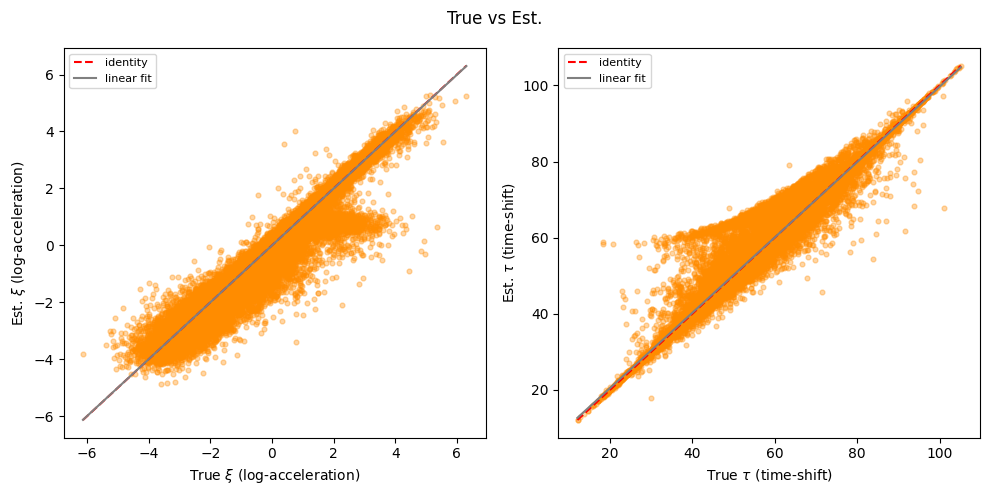
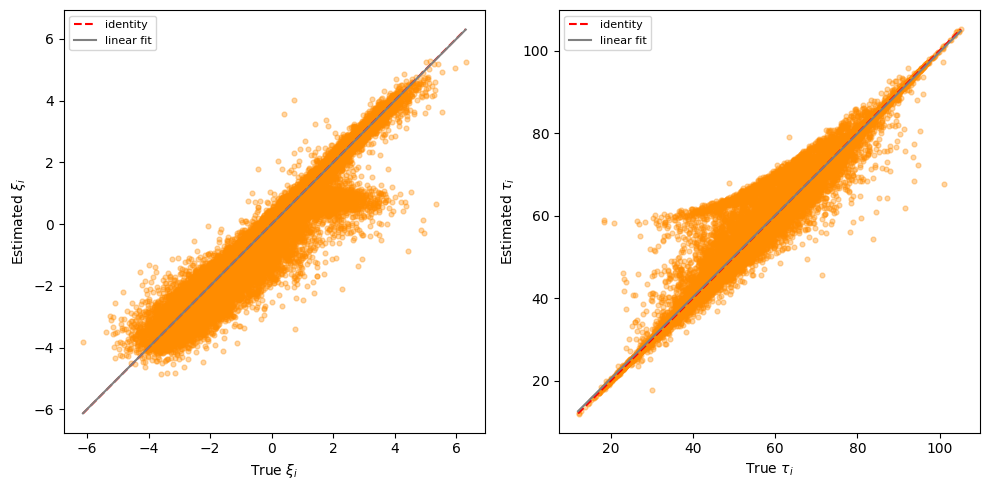
coherent notation between figures and report

diff --git a/deliverables/report.tex b/deliverables/report.tex
@@ -477,10 +477,12 @@ where $MS_B$ is the mean square between subjects and $MS_E$ is the mean square e
 The {Bland-Altman analysis} provides a graphical complement to the ICC. For each individual $i$ and each repetition $m$, the difference $\hat{\theta}_i^{(m)} - \theta_i^{(m)}$ is plotted against the mean $(\hat{\theta}_i^{(m)} + \theta_i^{(m)})/2$, pooled across all $M$ repetitions. Three summary quantities are reported: the bias (mean difference), which reveals any constant over- or under-estimation; the limits of agreement $\pm 1.96\,\mathrm{SD}$, which delimit the interval capturing approximately 95\% of individual differences; and the dependence of the difference on the mean, which would indicate proportional bias. A narrow symmetric band centred on zero is the signature of an accurate and unbiased personalisation procedure.
  
 \subsection{Experimental Setup}
-\todo{présenter les features (dire à quels indices elles correspondent), présenter un peu le dataset}
-The reference model $\theta^*$ is a joint model fitted on the PRO-ACT dataset, with a single event ($L = 1$). The simulation study is carried out in the \textit{random} visit mode with the following study parameters: first-visit offset $\bar{\delta}_f = -2.0$ years and $\sigma_{\delta_f} = 1.0$ year; follow-up duration $\overline{T_f} = 6.0$ years and $\sigma_{T_f} = 2.0$ years; inter-visit interval $\bar{\delta}_v = 0.083$ years and $\sigma_{\delta_v} = 0.042$ years; and a minimum spacing between visits of $0.05$ years. These parameters are deliberately chosen to place each simulated cohort in favourable conditions: the short inter-visit interval and long follow-up produce a dense observation schedule, so that each patient contributes many data points. This abundance of information per individual reduces the number of MCMC-SAEM iterations required to reach convergence both at the fitting and at the personalisation stage.  
 
-Each synthetic cohort contains $N = 1000$ patients, and the experiment is repeated $M = 50$ times. Each fresh model is fitted using the MCMC-SAEM algorithm with $N_{\mathrm{iter}} = 6000$ iterations, and the subsequent personalisation step runs for $N_{\mathrm{perso}} = 2000$ iterations. Naturally, the computational cost of this procedure is substantial, as it requires fitting $M$ separate joint models from scratch. Better results could be obtained by increasing $N$ and $M$, but this would further increase the computational burden. The chosen values of $N$ and $M$ represent a compromise between statistical power and practical feasibility, while still providing a robust assessment of the model's self-consistency.
+The reference model $\theta^*$ is a multivariate joint model fitted on the PRO-ACT dataset, a pooled and anonymized repository of longitudinal data from completed clinical trials in amyotrophic lateral sclerosis (ALS). It is fitted with latent sources of dimension $K = 2$, a single event ($L = 1$) representing death and four longitudinal outcomes ($J=4$) corresponding to the ALSFRS-R sub-scores for bulbar, fine motor, gross motor, and total function. The four longitudinal features are indexed as ($j=0,1,2,3$) and correspond, respectively, to: bulbar function (the sum of speech, salivation, and swallowing items); fine-motor function (handwriting, cutting food/handling utensils, and dressing/hygiene); gross-motor function (turning in bed/adjusting bed clothes, walking, and climbing stairs); and total function, defined as the overall ALSFRS-R score across all items, including the three preceding domains and the respiratory items (dyspnea, orthopnea, and respiratory insufficiency). The number of spatial shift is $J-1 = 3$, and the number of survival shifts is $L = 1$. 
+
+The simulation study is carried out in the \textit{random} visit mode with the following study parameters: first-visit offset $\bar{\delta}_f = -2.0$ years and $\sigma_{\delta_f} = 1.0$ year; follow-up duration $\overline{T_f} = 6.0$ years and $\sigma_{T_f} = 2.0$ years; inter-visit interval $\bar{\delta}_v = 0.083$ years and $\sigma_{\delta_v} = 0.042$ years; and a minimum spacing between visits of $0.05$ years. These parameters are deliberately chosen to place each simulated cohort in favourable conditions: the short inter-visit interval and long follow-up produce a dense observation schedule, so that each patient contributes many data points. This abundance of information per individual reduces the number of MCMC-SAEM iterations required to reach convergence both at the fitting and at the personalisation stage.  
+
+Each synthetic cohort contains $N = 1000$ patients, and the experiment is repeated $M = 200$ times. Each fresh model is fitted using the MCMC-SAEM algorithm with $N_{\mathrm{iter}} = 70000$ iterations, and the subsequent personalisation step runs for $N_{\mathrm{perso}} = 5000$ iterations. Naturally, the computational cost of this procedure is substantial, as it requires fitting $M$ separate joint models from scratch. Better results could be obtained by increasing $N$ and $M$, but this would further increase the computational burden. The chosen values of $N$ and $M$ represent a compromise between statistical power and practical feasibility, while still providing a robust assessment of the model's self-consistency.
 
 
 \subsection{Results and Interpretation}